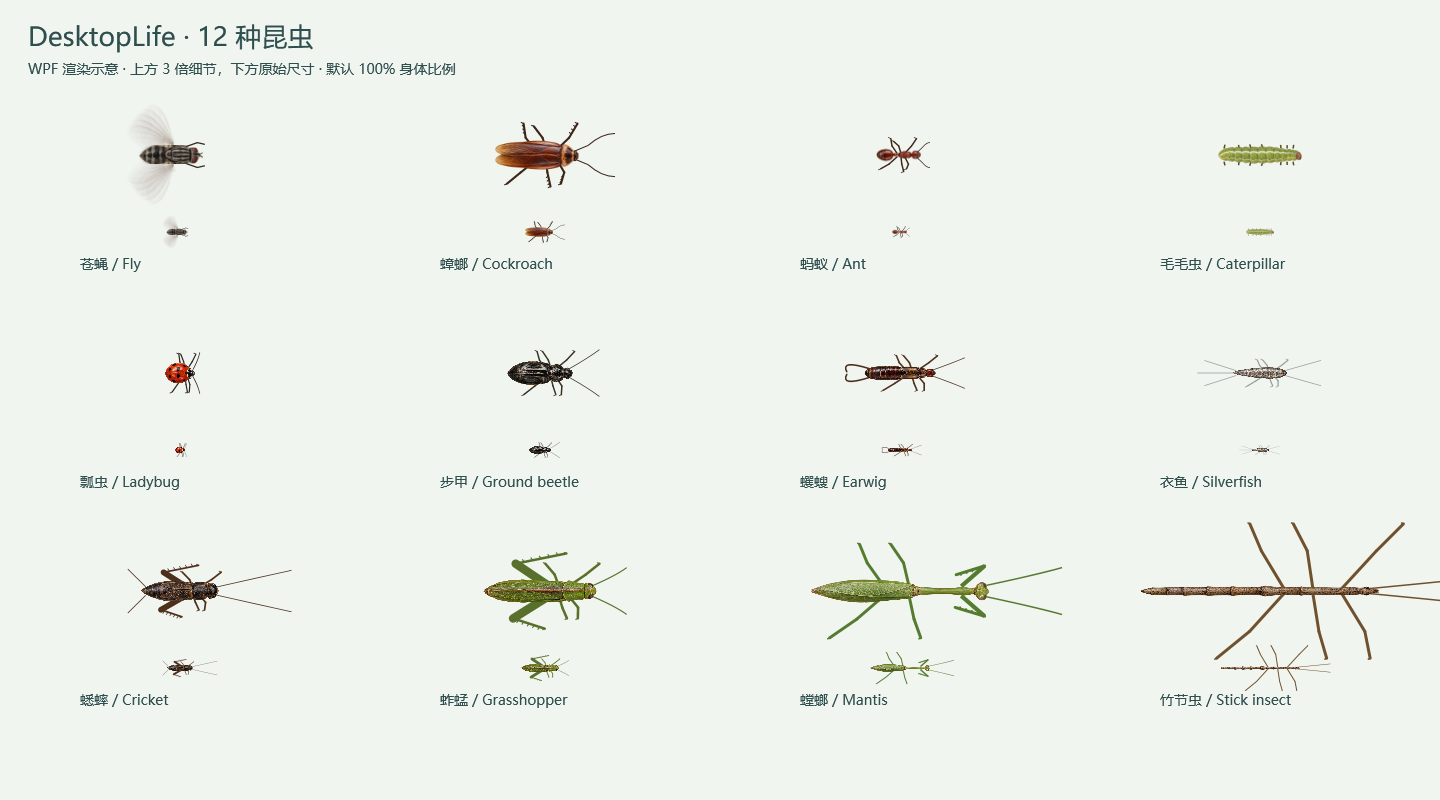
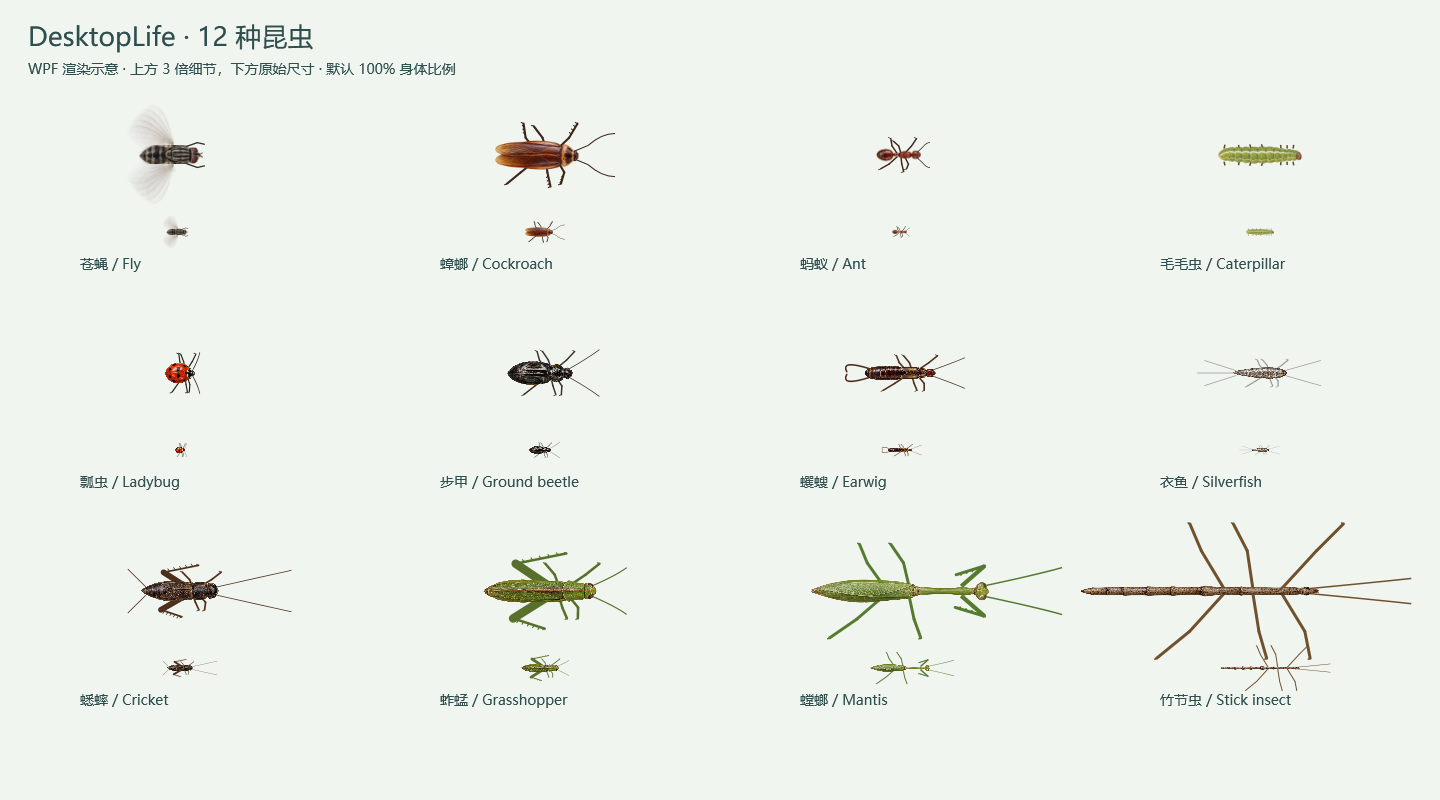
Keep stick insect antennae inside the species gallery

Changed region(s): [[0.75, 0.6562, 1.0, 0.8125], [0.8438, 0.6562, 0.875, 0.6875]]

diff --git a/tools/DesktopLife.Diagnostics/InsectCatalogProbe.cs b/tools/DesktopLife.Diagnostics/InsectCatalogProbe.cs
@@ -49,7 +49,8 @@ internal static class InsectCatalogProbe
                     var x = 180 + i % 4 * 360;
                     var y = 155 + i / 4 * 218;
                     dc.PushTransform(new ScaleTransform(3, 3));
-                    renderer.Render(dc, [new Pose(kinds[i], new(x / 3f, y / 3f), 0.25f)], new(0, 0, 1440, 800), 0, 1, 1);
+                    var detailX = kinds[i] == CreatureKind.StickInsect ? x - 60 : x;
+                    renderer.Render(dc, [new Pose(kinds[i], new(detailX / 3f, y / 3f), 0.25f)], new(0, 0, 1440, 800), 0, 1, 1);
                     dc.Pop();
                     renderer.Render(dc, [new Pose(kinds[i], new(x, y + 77), 0.25f)], new(0, 0, 1440, 800), 0, 1, 1);
                     Text(dc, names[i], x - 100, y + 100, 14, foreground);
